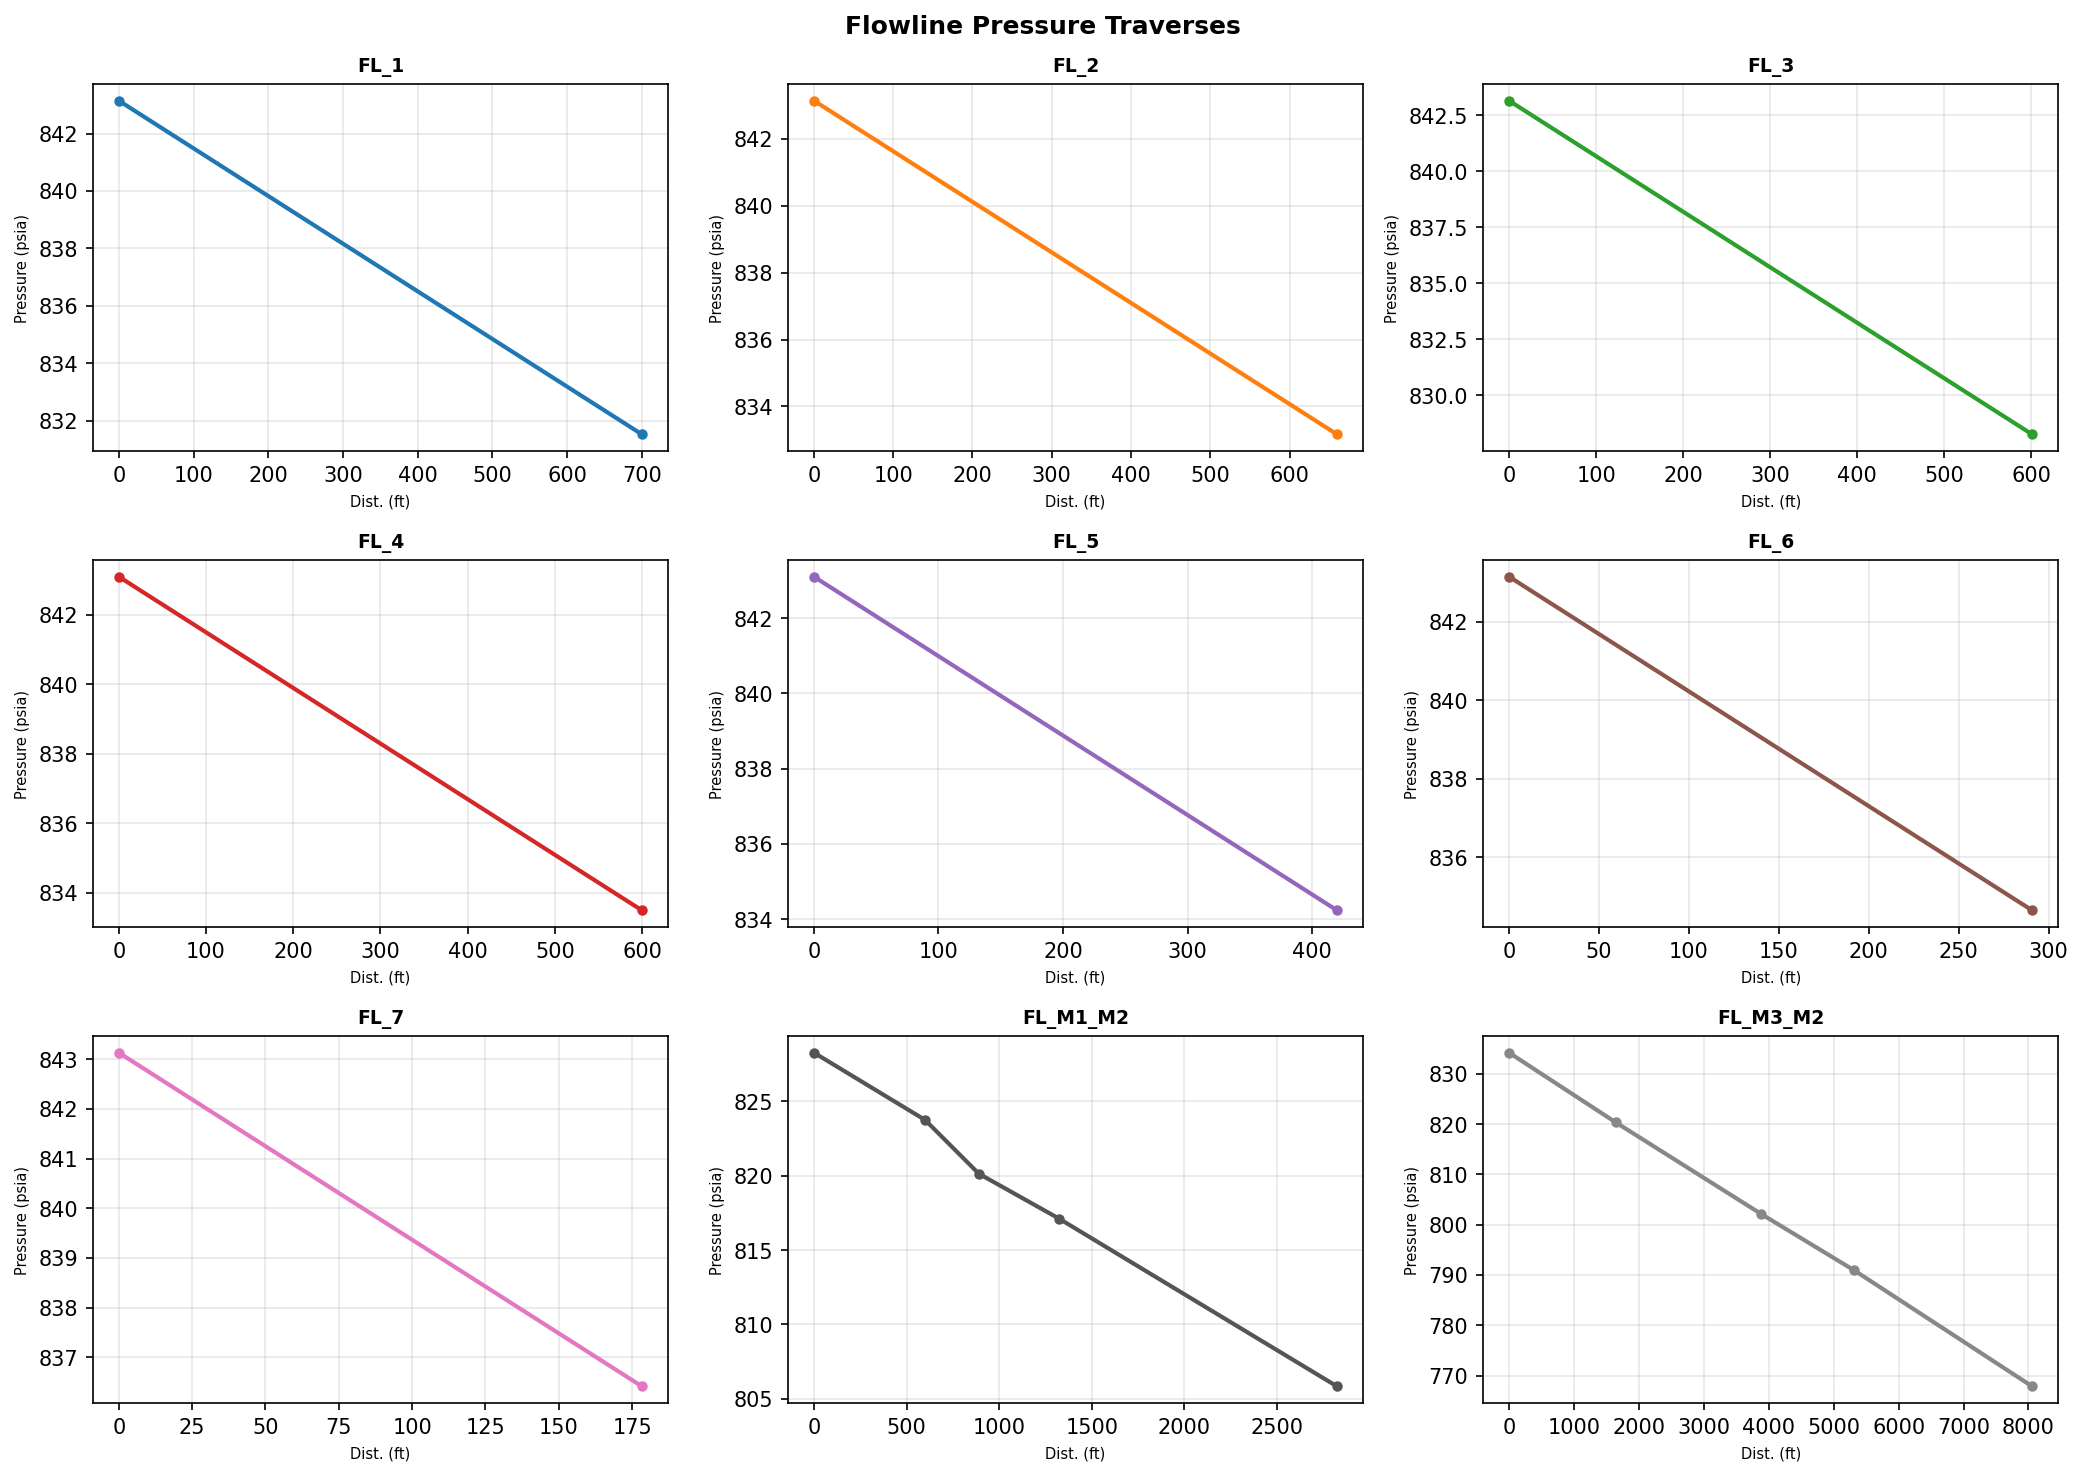
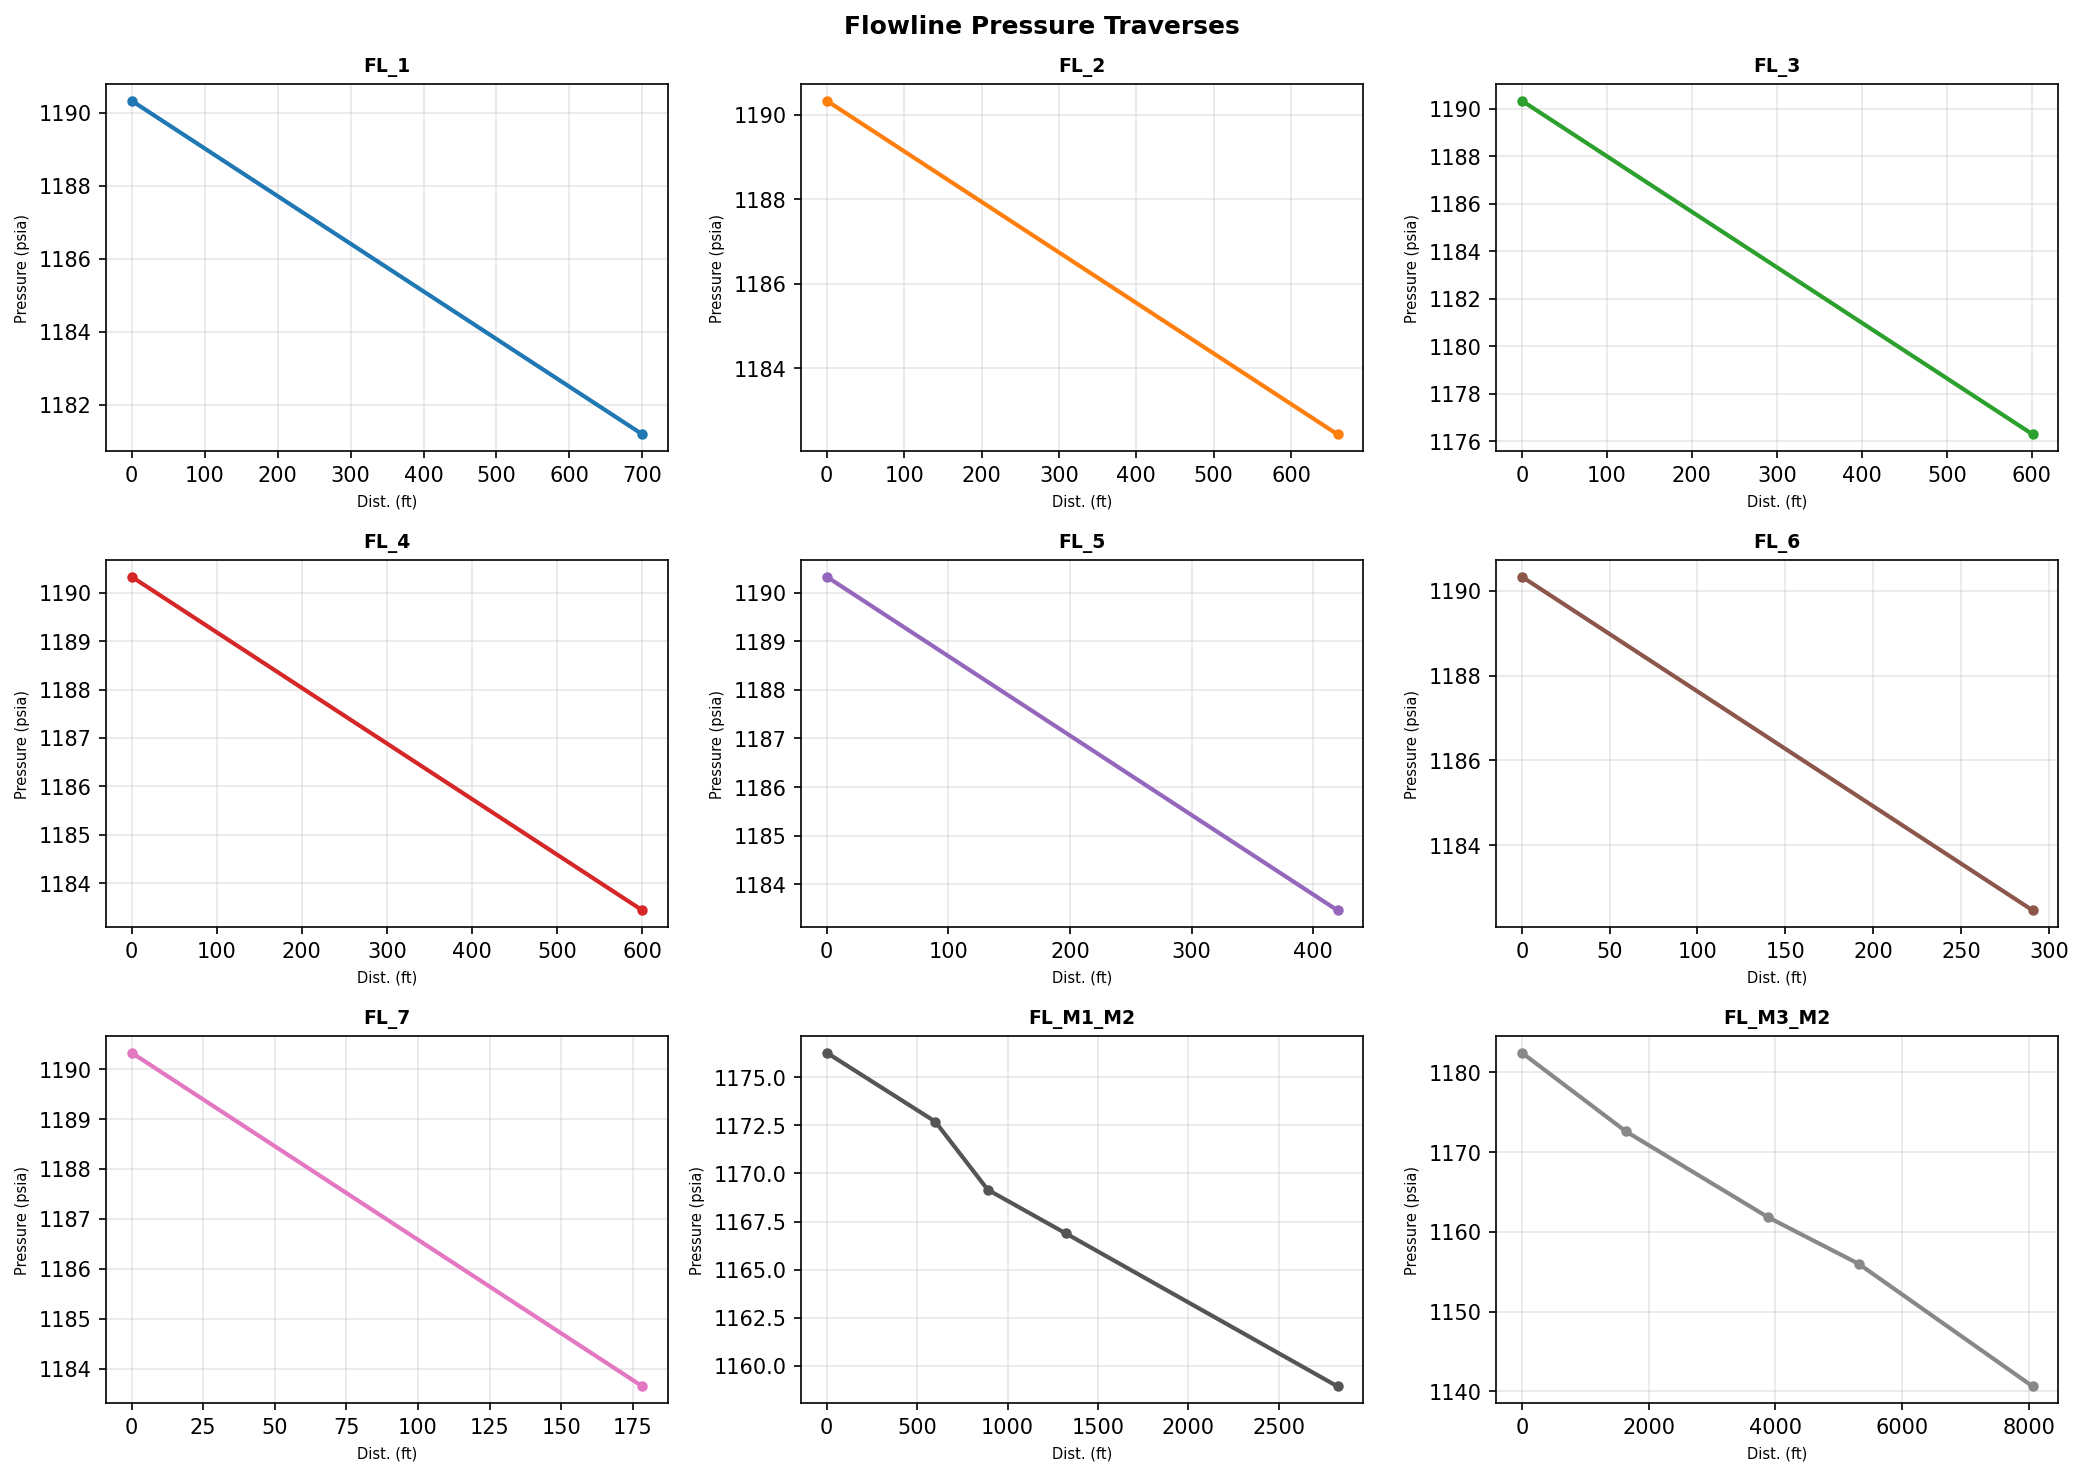
Change in the well trajectory for the network simulator. Added the Executive Summary and Results.

diff --git a/network_simulator/fluid_correlations.py b/network_simulator/fluid_correlations.py
@@ -149,6 +149,27 @@ class BlackOilFluid:
     # Oil FVF – anchored to measured Bo(Pb) = 1.2 bbl/STB
     # ================================================================
 
+    # def oil_fvf(self, p_psia: float) -> float:
+    #     pb   = self.pb_psia
+    #     Rs   = self.solution_gor(p_psia)
+    #     Rs_b = self.gor_scf_stb
+    #     sg   = self.sg_gas
+    #     api  = self.api
+    #     T    = self.T_F
+    #     sg_100 = sg * (1.0 + 5.912e-5 * api * self.p_sep_psia
+    #                    * math.log10(max(self.p_sep_psia, 1.0) / 114.7))
+    #     C1, C2, C3 = 4.670e-4, 1.100e-5, 1.337e-9
+
+    #     def _vb(r):
+    #         return (1.0 + C1*r + C2*(T-60)*(api/sg_100)
+    #                 + C3*r*(T-60)*(api/sg_100))
+
+    #     if p_psia <= pb:
+    #         ratio = self.bo_pb / max(_vb(Rs_b), 1e-6)
+    #         return max(_vb(Rs) * ratio, 1.0)
+    #     else:
+    #         co = self._oil_compressibility(pb, Rs_b)
+    #         return self.bo_pb * math.exp(-co * (p_psia - pb))
     def oil_fvf(self, p_psia: float) -> float:
         pb   = self.pb_psia
         Rs   = self.solution_gor(p_psia)
@@ -156,20 +177,29 @@ class BlackOilFluid:
         sg   = self.sg_gas
         api  = self.api
         T    = self.T_F
-        sg_100 = sg * (1.0 + 5.912e-5 * api * self.p_sep_psia
-                       * math.log10(max(self.p_sep_psia, 1.0) / 114.7))
+
+        sg_100 = sg * (
+            1.0
+            + 5.912e-5 * api * self.p_sep_psia
+            * math.log10(max(self.p_sep_psia, 1.0) / 114.7)
+        )
         C1, C2, C3 = 4.670e-4, 1.100e-5, 1.337e-9
 
         def _vb(r):
-            return (1.0 + C1*r + C2*(T-60)*(api/sg_100)
-                    + C3*r*(T-60)*(api/sg_100))
+            return (
+                1.0
+                + C1 * r
+                + C2 * (T - 60.0) * (api / sg_100)
+                + C3 * r * (T - 60.0) * (api / sg_100)
+            )
 
         if p_psia <= pb:
-            ratio = self.bo_pb / max(_vb(Rs_b), 1e-6)
-            return max(_vb(Rs) * ratio, 1.0)
-        else:
-            co = self._oil_compressibility(pb, Rs_b)
-            return self.bo_pb * math.exp(-co * (p_psia - pb))
+            ratio = self.bo_pb / max(_vb(Rs_b), 1e-12)
+            bo = _vb(Rs) * ratio
+            return bo   # inspect raw behavior first
+
+        co = self._oil_compressibility(pb, Rs_b)
+        return self.bo_pb * math.exp(-co * (p_psia - pb))   
 
     def _oil_compressibility(self, p_psia: float, Rs: float) -> float:
         co = (-1433 + 5*Rs + 17.2*self.T_F
@@ -338,3 +368,55 @@ if __name__ == "__main__":
               f"  {f.oil_viscosity_cp(p):>7.4f}  {f.z_factor(p):>7.4f}"
               f"  {f.mixture_density_lbmft3(p):>8.3f}"
               f"  {f.mixture_viscosity_cp(p):>8.4f}")
+        
+        print("\n" + "=" * 80)
+    
+    
+    print("FREE GAS CHECK")
+    print("=" * 80)
+
+    q_total_stbd = 1000.0
+    q_o_stbd = q_total_stbd * (1.0 - f.wc)
+
+    print(
+        f"{'p(psia)':>8}  {'Rs(scf/STB)':>12}  {'FreeGOR':>10}  "
+        f"{'Bg(ft3/scf)':>12}  {'qg(ft3/s)':>12}  {'qg(Mscf/d)':>12}"
+    )
+    print("  " + "─" * 72)
+
+    for p in [3800, 3500, 3000, 2500, 2000, 1500, 1000, 500]:
+        Rs = f.solution_gor(p)
+        free_gor = max(f.gor_scf_stb - Rs, 0.0)
+        Bg = f.gas_fvf_ft3_scf(p)
+
+        # liberated free gas volumetric rate at flowing conditions
+        qg_ft3_day = q_o_stbd * free_gor * Bg
+        qg_ft3_s = qg_ft3_day / 86400.0
+
+        # optional: free gas at standard conditions
+        qg_scf_day = q_o_stbd * free_gor
+        qg_mscf_day = qg_scf_day / 1000.0
+
+        print(
+            f"{p:8.0f}  {Rs:12.2f}  {free_gor:10.2f}  "
+            f"{Bg:12.5f}  {qg_ft3_s:12.5f}  {qg_mscf_day:12.2f}"
+        )
+
+    print("\n" + "=" * 80)
+    print("FREE GAS FRACTION CHECK")
+    print("=" * 80)
+
+    for p in [3800, 3500, 3000, 2500, 2000, 1500, 1000, 500]:
+        ql = f.liquid_rate_ft3s(q_total_stbd, p)
+        Rs = f.solution_gor(p)
+        free_gor = max(f.gor_scf_stb - Rs, 0.0)
+        Bg = f.gas_fvf_ft3_scf(p)
+        qg = q_o_stbd * free_gor * Bg / 86400.0
+
+        vmix = ql + qg
+        lambda_l = ql / vmix if vmix > 0 else 1.0
+
+        print(
+            f"p={p:5.0f} psia | ql={ql:8.5f} ft3/s | "
+            f"qg={qg:8.5f} ft3/s | lambda_l={lambda_l:7.4f}"
+        )

diff --git a/report/sections/04_results.tex b/report/sections/04_results.tex
@@ -2,49 +2,66 @@
 %  RESULTS  (sections/04_results.tex)
 % =============================================================
 
-\chapter{Results}
+\chapter{Final Network Configuration and Production Strategy}
 
 % Present your results using the SAME subsection structure as the
 % Procedure chapter. Reference figures and tables in the text;
 % do not let them stand alone without discussion.
 
 % ----- Subsection 1 -------------------------------------------
-\section{Phase / Method 1 Results}
-\label{sec:res_phase1}
+\section{Wells}
+\label{sec:res_wells}
+The well design process was developed as shown in Section~\ref{subsec:well}. It was defined the tubing and production casing for the default well. 
+It was also informed the gas lift rate needed to mantain the production rate of 6428.57 bbl/day. The final design of the well is shown in Table~\ref{tab:well_design}.
+\begin{table}[ht]
+    \centering
+    \caption{Final well design.}
+    \label{tab:well_design}
+    \begin{tabular}{lccc}
+        \hline
+        Parameter & OD & ID & Unit \\
+        \hline
+        Tubing Diameter & 3.5 & 2.922 & inches \\
+        Production Casing Diameter & 7.0 & 5.92 & inches \\
+        \hline
+    \end{tabular}
+\end{table}
 
-\lipsum[7] % Replace with your results narrative
+The gas lift is need for water cuts higher than 5\%. The maximum gas lift rate needed is 1.6~MMscf/day, for a water cut of 95\%. The Table~\ref{tab:gas_lift} shows the minimum gas lift rate needed for different water cuts.
+Using those gas lift rates is also asured that the well head pressure will be higher than 1200 psi, which is the minimum pressure needed to avoid parafin deposition.
+\begin{table}[ht]
+    \centering
+    \caption{Minimum gas lift rate needed for different water cuts.}
+    \label{tab:gas_lift}
+    \begin{tabular}{lcc}
+        \hline
+        Water Cut (\%) & Gas Lift Rate (MMscf/day) \\
+        \hline
+        2 & 0.0 \\
+        5 & 0.0 \\
+        20 & 0.2 \\
+        35 & 0.6 \\
+        70 & 1.2 \\
+        90 & 1.6 \\ 
+        95 & 1.6 \\
+        \hline
+    \end{tabular}
+\end{table}
 
-% Example figure reference:
-% As shown in \cref{fig:example}, the measured values indicate that...
+\section{Pipeline}
 
-% --- Example Figure ---
-% \begin{figure}[htbp]
-%     \centering
-%     \includegraphics[width=0.75\textwidth]{figures/your_figure.pdf}
-%     \caption{Descriptive caption for Figure 1.}
-%     \label{fig:example}
-% \end{figure}
+\section{Production Strategy}
 
-% ----- Subsection 2 -------------------------------------------
-\section{Phase / Method 2 Results}
-\label{sec:res_phase2}
+It is expected that the field can produce with 3 wells off. If it is necessary to maintain the minimum well head pressure, the total 
+field liquid production should be reduced to 19285 bbl/day, correponding to a 4 wells producing at the maximum liquid rate.
+The economic analysis of the project shows that it more profitable to produce the well with a reduced gas lift injection rate. The Figure~\ref{optimal_gas_lift_50} and Figure~\ref{optimal_gas_lift_30} show the optimal gas lift injection rate for different 
+oil prices, for a \$50/bbl and \$30/bbl, respectively. 
 
-\lipsum[8] % Replace with your results narrative
+\section{Network Simulator}
 
-% Example table reference:
-% \Cref{tab:example} summarises the key measurements obtained.
+A network simulator was developed to model the production of the field. It used tha Hagedorn and Brown correlation to model the
+two-phase flow in the well and the Beggs and Brill correlation to model the two-phase flow in the pipeline. 
+The simulator was used to predict the flow rates and pressures in the wells and manifolds, showing a good agreement with the 
+Pipesim results, being a useful tool for the production optimization of the field in the case where Pipesim is not available.
 
-% --- Example Table ---
-% \begin{table}[htbp]
-%     \centering
-%     \caption{Descriptive caption for Table 1.}
-%     \label{tab:example}
-%     \begin{tabular}{lcc}
-%         \toprule
-%         Parameter & Value & Unit \\
-%         \midrule
-%         Example A & 1.23  & m    \\
-%         Example B & 4.56  & kPa  \\
-%         \bottomrule
-%     \end{tabular}
-% \end{table}
+

diff --git a/report/sections/01_executive_summary.tex b/report/sections/01_executive_summary.tex
@@ -2,15 +2,20 @@
 %  EXECUTIVE SUMMARY  (sections/01_executive_summary.tex)
 % =============================================================
 
+% =============================================================
+%  EXECUTIVE SUMMARY  (sections/01_executive_summary.tex)
+% =============================================================
+
 \chapter*{Executive Summary}
 \addcontentsline{toc}{chapter}{Executive Summary}
 \markboth{Executive Summary}{Executive Summary}
 
-% PURPOSE: A concise summary (typically one page) of the entire report.
-% Include: project objective, key methods, principal results, and main
-% conclusions. This section should be self-contained — a busy reader
-% should understand the work after reading only this page.
-%
-% NOTE: An expanded version of this appears in the Conclusions chapter.
+This report presents the well design, surface network configuration, pipeline sizing, economic analysis, and production strategy for a subsea field development project comprising seven production wells. The work was carried out in two parts: a PIPESIM-based study and the development of an in-house Python network simulator.
 
-\lipsum[1-2] % Replace with your executive summary text
+\textbf{Well Design.} Each well was designed to deliver a maximum liquid rate of 6{,}429~STB/d, corresponding to a field target of 45{,}000~STB/d. A productivity-index analysis identified a 7-inch OD (5.92-inch ID) production casing as the optimal selection, balancing inflow performance against drilling cost. The minimum tubing ID of 2.922 inches (3.5-inch OD) was determined from PIPESIM wellbore simulations. Gas-lift is required at water cuts above 5\%, with a maximum injection rate of 1.6~MMscf/d per well at 95\% water cut. A minimum wellhead pressure of 1{,}200~psia is maintained throughout, preventing asphaltene precipitation.
+
+\textbf{Pipeline Design.} The subsea flowline connecting manifold M2 to the land-based operations point (LOP) is 46{,}617~ft long with a maximum riser depth of 3{,}000~ft. A 10-inch internal diameter was selected as the minimum viable size, yielding an inlet pressure of 1{,}040~psia at worst-case conditions (WC~=~2\%, 7~wells), within the 1{,}200~psia constraint. The system remains operable with four wells online. Thermal analysis confirmed that a minimum insulation thickness of 2~inches is required to keep outlet temperatures above the wax appearance temperature of 100\textdegree F under reduced-production conditions.
+
+\textbf{Economic Analysis and Production Optimization.} A gas-lift optimization algorithm was applied to maximize net profit over the production forecast. At \$50/BBL, optimized gas-lift scheduling sustains economic production across the full forecast period, compared to an economic limit at day~14{,}512 without optimization. At \$30/BBL, optimization extends economic production by approximately 10{,}015~days. Break-even water cuts were estimated at 86\% and 78\% for oil prices of \$50/BBL and \$30/BBL, respectively.
+
+\textbf{Network Simulator.} An integrated Python network simulator was developed, coupling subsurface inflow models with surface multiphase flow using the Hagedorn--Brown (wellbore) and Beggs--Brill (pipeline) correlations. Simulation results showed good agreement with PIPESIM, demonstrating the tool's utility for production optimization when commercial software is unavailable.

diff --git a/network_simulator/multiphase_correlations.py b/network_simulator/multiphase_correlations.py
@@ -269,7 +269,7 @@ class HagedornBrown:
     # Main pressure gradient
     # ------------------------------------------------------------------
 
-    def dpdl_psi_ft(self, q_total_stbd: float, p_psia: float, include_acceleration: bool = True) -> float:
+    def dpdl_psi_ft(self, q_total_stbd: float, p_psia: float, include_acceleration: bool = False) -> float:
         """
         Total pressure gradient [psi/ft] for vertical upward flow.
         """
@@ -329,16 +329,20 @@ class HagedornBrown:
             mu_l_cp=mu_l_cp,
             sigma_l=sigma_l,
         )
-
+        
         # Bubble modification
         if regime == "bubble":
-            HL = 1.0
-
+            HL_gw = self._griffith_wallis_holdup(vsl, vsg, vm)
+            HL = HL_gw
+        
         # Mist fallback
         elif regime == "mist":
             HL = max(lam_l, 1e-6)
         else:
             HL = min(max(HL, lam_l), 1.0)
+            
+        # HL = HL*0.62        
+
 
         # -------------------------
         # Mixture properties
@@ -404,12 +408,16 @@ class HagedornBrown:
         vsl, vsg, vm, lam_l = _superficial_velocities(q_l, q_g, self.A)
         HL, regime = self._liquid_holdup(vsl, vsg, vm, p_psia, rho_l, rho_g, mu_l_cp, sigma_l)
 
+        # Bubble modification
         if regime == "bubble":
-            HL = 1.0
+            HL_gw = self._griffith_wallis_holdup(vsl, vsg, vm)
+            HL = HL_gw
+
+        # Mist fallback
         elif regime == "mist":
             HL = max(lam_l, 1e-6)
-
-        HL = min(max(HL, lam_l), 1.0)
+        else:
+            HL = min(max(HL, lam_l), 1.0)
 
         rho_m = rho_l * HL + rho_g * (1.0 - HL)
         mu_tp = math.exp(

diff --git a/network_simulator/network_components.py b/network_simulator/network_components.py
@@ -288,11 +288,12 @@ class Well:
                 # Get appropriate correlation
                 corr = get_correlation(self.fluid, self.ID_in,
                                        theta_from_horiz, self.eps_in)
-
+                
                 # dP/dL at mid-segment pressure (floor p to avoid singularities)
                 p_safe = max(p_curr, 14.7)
                 try:
                     dpdl = corr.dpdl_psi_ft(q_stbd, p_safe)
+                    
                 except (OverflowError, ZeroDivisionError, ValueError):
                     dpdl = 0.0
 
@@ -430,6 +431,7 @@ class FlowlinePipe:
             p_curr = max(p_curr, 14.7)
             try:
                 dpdl = corr.dpdl_psi_ft(q_stbd, p_curr)
+                
             except (OverflowError, ZeroDivisionError, ValueError):
                 dpdl = 0.0
             dp   = dpdl * seg['L_ft']

diff --git a/network_simulator/main_7wells.py b/network_simulator/main_7wells.py
@@ -58,7 +58,7 @@ fluid = BlackOilFluid(
     wc           = 0.05,
     T_F          = 150.0,
     p_res_psia   = 3800.0,
-    p_sep_psia   = 1202.54,
+    p_sep_psia   = 14.54,
 )
 
 print("=" * 62)
@@ -80,15 +80,16 @@ WELL_PARAMS = dict(
     eps_in     = 0.001,
     J_stbd_psi = 5.9,
     Pr_psia    = 3800,
-    Pwh_psia   = 1200,
+    # Pwh_psia   = 1200,
 )
 
 SURVEY_DIR = os.path.dirname(os.path.abspath(__file__))
 
 wells = []
 for i in range(1, 8):
-    csv_path = os.path.join(SURVEY_DIR, f'w{i}_survey.csv')
+    csv_path = os.path.join(SURVEY_DIR, f'w{1}_test.csv')
     survey   = read_survey(csv_path, verbose=True)
+    
     w = Well(name=f"Well_{i}", fluid=fluid, survey=survey, **WELL_PARAMS)
     wells.append(w)
 
